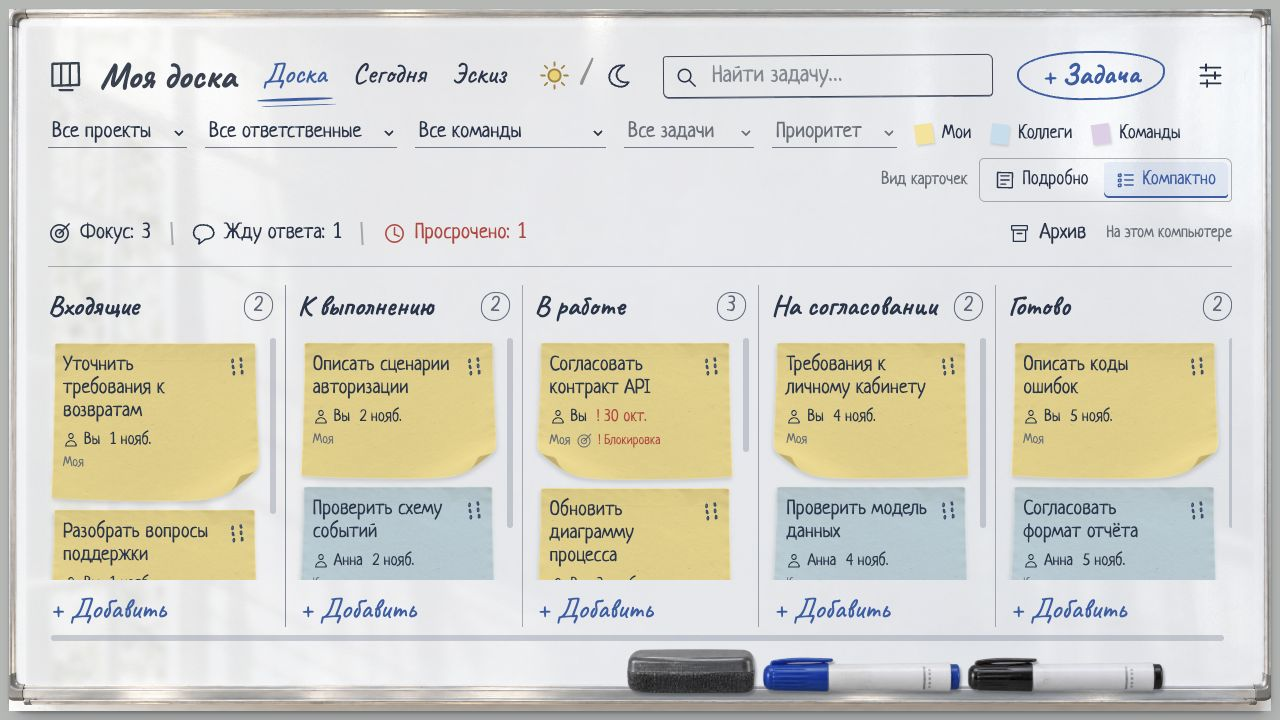
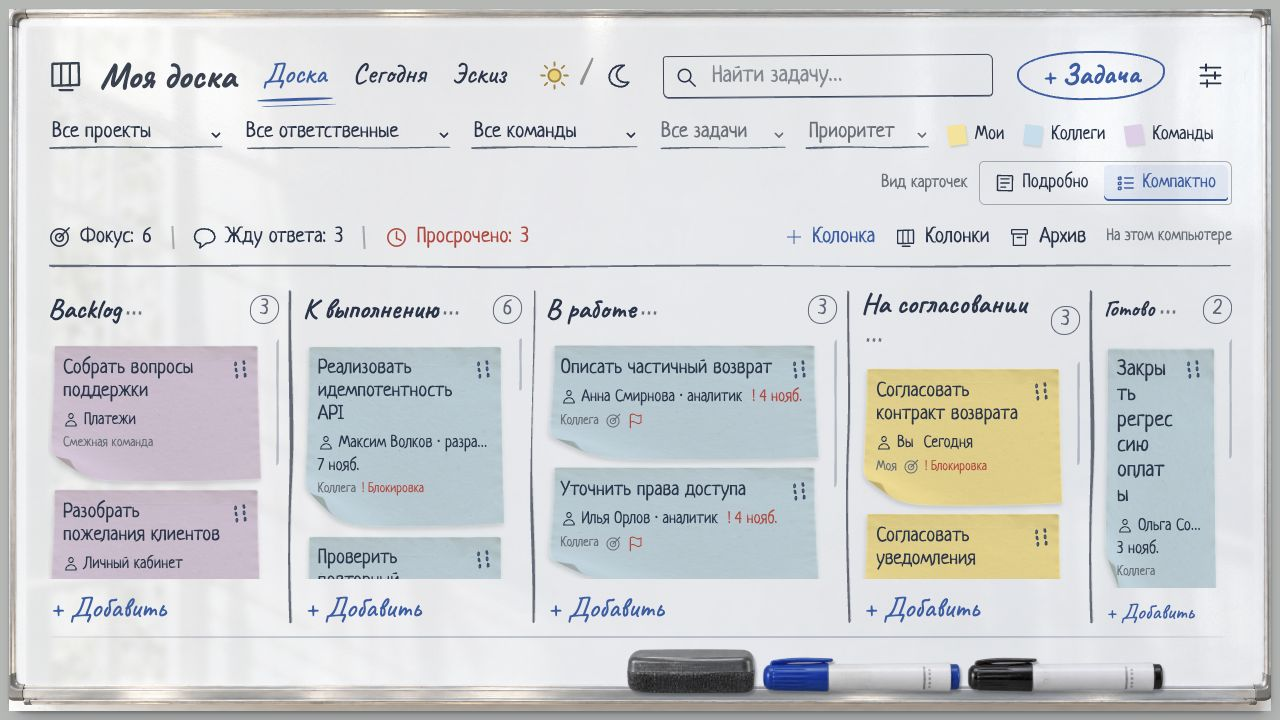
Document configurable workflows and team projects with refreshed screenshots

diff --git a/README.md b/README.md
@@ -1,16 +1,14 @@
 # Моя доска
 
-**Задачи, план на день и эскизы — на одной маркерной доске.**
+«Моя доска» — локальная Kanban-доска для системного аналитика. Соберите в одном месте свои задачи, договорённости с коллегами и работу смежных команд. Настройте колонки под свой процесс, откройте «Сегодня», чтобы выбрать фокус дня, или набросайте схему взаимодействия в «Эскизе».
 
-Личное рабочее пространство для системных аналитиков и командных задач: организуйте работу на Kanban-доске, выбирайте фокус дня и набрасывайте схемы во вкладке **«Эскиз»**. Бумажные стикеры, рукописные надписи, мягкий дневной свет и тёплая вечерняя тема — в приложении, которое хранит задачи и рисунки на вашем компьютере.
-
-**Локально · SQLite · Без Docker · Один владелец · Открытый исходный код**
+Задачи, связи сотрудников с командами и рисунки хранятся в SQLite на вашем компьютере. Для запуска нужна одна команда — `npm start`.
 
 [Быстрый запуск](#быстрый-запуск) · [Возможности](#что-умеет-доска) · [Эскиз](#эскиз-рядом-с-задачами) · [Руководство](docs/guide.md) · [GitHub](https://github.com/Vadim-Bogdanchik/marker-board) · [GitVerse](https://gitverse.ru/bogdanchik_vadim/marker-board)
 
 ![Моя доска: дневная тема и компактные карточки](docs/product/board-current-day.jpg)
 
-*Актуальные скриншоты работающего приложения, 31 октября 2026 года. Задачи и схема демонстрационные; при первом запуске доска и эскиз пустые.*
+*Демонстрационная доска с тремя командами. Для текущей работы отведено больше места, для завершённых задач выбрана узкая колонка. При первом запуске вы получите пустую доску.*
 
 | Доска | Сегодня | Эскиз |
 | --- | --- | --- |
@@ -30,8 +28,8 @@
 
 | Возможность | Как помогает в работе |
 | --- | --- |
-| **Колонки Kanban** | Входящие → К выполнению → В работе → На согласовании → Готово. Нажмите «+ Колонка», чтобы добавить свой этап. В заголовке колонки откройте «…», чтобы переименовать или удалить её и перенести задачи. Потяните разделитель, чтобы изменить ширину соседних колонок. |
-| **Свои задачи и задачи коллег** | Цвет и подпись различают личные задачи, задачи коллег и смежных команд. Справочники проектов, сотрудников и команд не требуют аккаунтов. |
+| **Колонки Kanban** | Добавляйте этапы под свой процесс и меняйте их ширину. При удалении заполненной колонки вы выбираете, куда перенести стикеры. |
+| **Свои задачи и задачи коллег** | Цвет и подпись различают личные задачи, задачи коллег и смежных команд. Сотрудник может входить в несколько команд, а команда — участвовать в нескольких проектах. |
 | **«Мой день»** | Ручной фокус, просрочки, сроки сегодня и в ближайшие семь дней, наступившие напоминания. |
 | **«Эскиз»** | Рисование маркером, готовые блоки и стрелки, печатные подписи рукописным шрифтом. Магнитный стиратель и отмена действий. |
 | **Следующий шаг** | Отдельный стикер в карточке подсказывает конкретное действие, с которого начать. |
@@ -40,6 +38,16 @@
 | **Быстрый обзор** | Поиск по названию и описанию, совместные фильтры, подробный и компактный вид карточек. |
 | **Контроль нагрузки** | Настраиваемый лимит своих задач в работе и время с первого перехода в работу или согласование. |
 | **Архив и резервные копии** | Архивирование с восстановлением, экспорт и импорт JSON, копия SQLite перед миграциями. |
+
+### Колонки и команды
+
+Кнопка **«+ Колонка»** добавляет этап. Потяните разделитель, чтобы освободить место для длинных названий задач, или выберите ширину в меню **«Колонки»**. Нажмите **«…»** в заголовке, чтобы переименовать или удалить колонку.
+
+В **Настройках → Люди, команды и проекты → Команды** откройте команду карандашом, отметьте её участников и проекты. Теперь при выборе команды в карточке задачи связанные сотрудники и проекты появятся первыми в списках.
+
+| Настройка колонок | Участники и проекты команды |
+| --- | --- |
+| ![Колонки доски с выбором ширины и кнопкой добавления этапа](docs/product/column-settings.jpg) | ![В команде «Платежи» отмечены аналитик, разработчик, тестировщик и проект «Возвраты 2.0»](docs/product/team-project-settings.jpg) |
 
 ## Эскиз рядом с задачами
 
@@ -137,7 +145,7 @@ npm run build           # Проверка TypeScript и production-сборка
 npm run qa              # Отдельная тестовая доска на localhost:3100
 ```
 
-В текущем прогоне прошли **28 основных и 6 интеграционных тестов**. Они проверяют в том числе порядок карточек, циклы зависимостей, импорт, сохранность данных, обработку кадров рисования, защиту API и откат неудачных операций.
+Тесты проверяют связи справочников, изменение состава и ширины колонок, порядок карточек, циклы зависимостей, импорт, сохранность данных, обработку кадров рисования, защиту API и откат неудачных операций.
 
 Замеры и оптимизация рисования описаны в [отчёте о производительности](docs/performance.md). Отдельный нагрузочный стенд: `npm run perf:sketch` (тестовая база, порт 3101).
 

diff --git a/docs/product/README.md b/docs/product/README.md
@@ -1,12 +1,10 @@
 # Скриншоты продукта
 
-Актуальная галерея для корневого README снята 31 октября 2026 года с работающей версии `7789284`.
+Доска и настройки сняты 5 ноября 2026 года в версии `9a3688a` на отдельной локальной базе с учебными командами.
 
-- `board-current-day.jpg`, `board-current-night.jpg` — компактная Kanban-доска с вкладкой «Эскиз».
-- `today-current.jpg` — обзор «Мой день».
-- `sketch-current-day.jpg`, `sketch-current-night.jpg` — схема согласования API, инструменты, магнитный стиратель и подписи в двух темах.
-- `mobile-current-board.jpg`, `mobile-current-editor.jpg` — мобильная доска с новой навигацией и редактор задачи, 412 × 915.
-
-Использована отдельная демонстрационная база на localhost:3102. Реальные задачи владельца не участвовали в съёмке. Настольные снимки — 1280 × 720; масштаб эскиза 65% выбран штатной кнопкой вписывания. Изображения сняты непосредственно в браузере без ретуши интерфейса.
-
-Файлы без `current` — предыдущие снимки, оставленные для истории; корневой README использует новую галерею.
+- [Дневная доска](board-current-day.jpg) и [вечерняя доска](board-current-night.jpg) показывают компактные карточки и колонки разной ширины.
+- [Настройка колонок](column-settings.jpg) показывает добавление этапа, выбор ширины и удаление.
+- [Редактор команды](team-project-settings.jpg) показывает состав «Платежей» и выбранный проект «Возвраты 2.0».
+- [Обзор дня](today-current.jpg) объединяет задачи в фокусе, сроки и напоминания.
+- [Доска на узком экране](mobile-current-board.jpg) и [редактор задачи](mobile-current-editor.jpg) сняты в браузере при ширине 412 пикселей.
+- [Дневной эскиз](sketch-current-day.jpg) и [вечерний эскиз](sketch-current-night.jpg) показывают схему согласования API. Эти снимки сделаны 31 октября 2026 года.
